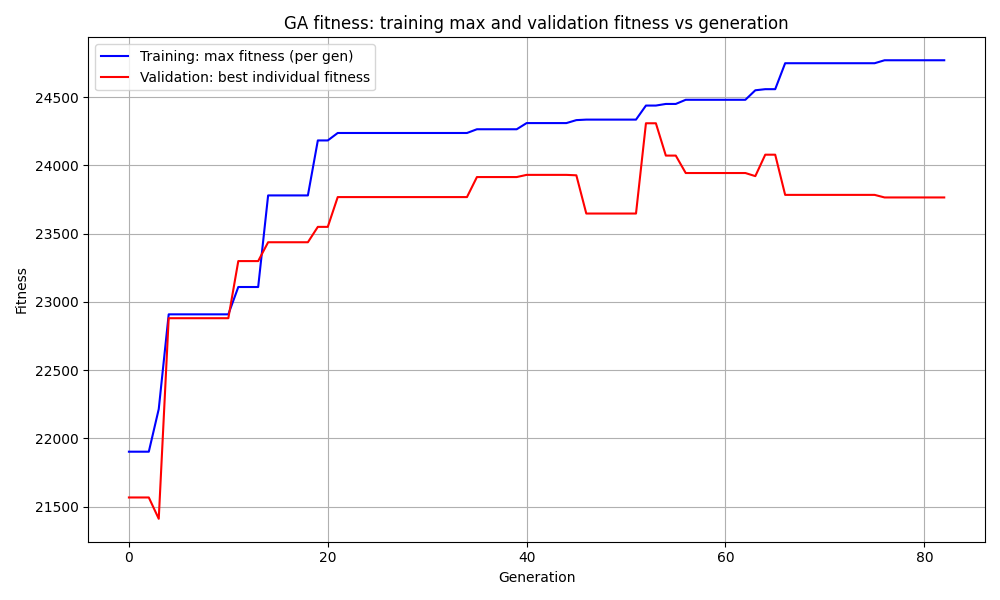
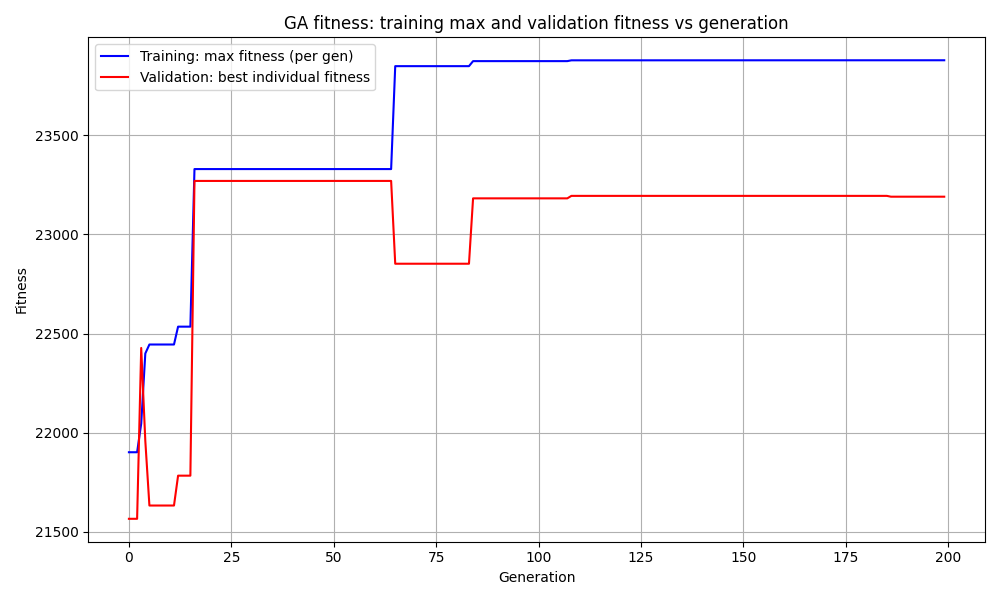
Negative alpha

diff --git a/HP2/HP2.3/checkpoints/checkpoint_gen110.py b/HP2/HP2.3/checkpoints/checkpoint_gen110.py
@@ -1,9 +1,9 @@
 # Checkpoint chromosome from GA optimization
-CHROMOSOME = [0.93374942300147, 0.0794193689889866, 0.7945256017997251, 0.5088940700698802, 0.09120610304869037, 0.7076809347409158, 0.5989785081772105, 0.9317314247538246, 0.9836789252634136, 0.8591117576469165, 0.3509150125520787, 0.48303969755889, 0.7328015447662506, 0.11635848516449587, 0.6880455570741288, 0.7356631142391898, 0.10988354609219969, 0.8267878665414035, 0.6888853020500907, 0.8650710993753938, 0.30625362078661167, 0.520912445480685, 0.24618949858401212, 0.1602256009765063, 0.10971794703713791, 0.3686433676263918, 0.26251029048316565, 0.034543314758851244, 0.059587097353143714, 0.41412975252892703, 0.02974468302092731, 0.733614380561402, 0.7693048936413398, 0.011031264428647214, 0.4161539981797615, 0.9706680277938705, 0.019192276823056686, 0.49262510429085915]
+CHROMOSOME = [0.5969106905466561, 0.1782259925695533, 0.6015205653959383, 0.602553304280247, 0.5135850251018901, 0.5371065418185478, 0.0, 0.7217693570937745, 0.2039448467069711, 0.020513491107372828, 0.0, 1.0, 0.0, 0.9205314040039358, 0.8683239636503679, 0.9625711504698298, 0.1860885417725199, 0.8815112908118601, 0.47710981769392613, 0.5293021711521956, 0.604786121632589, 0.1627035417652672, 0.1215873495335269, 0.7587704341985726, 0.3305710900767286, 0.03881294781180211, 0.46487093015434366, 0.49896794422079305, 0.454130324041545, 0.6933150468600581, 0.4727245214577982, 0.7406489486815686, 0.5902375671662377, 0.8724456007975532, 0.4188883407437571, 0.328156262408395, 0.052579528629520284, 0.8513647834094696]
 NI = 3  # Number of inputs
 NH = 6  # Number of hidden neurons
 NO = 2  # Number of outputs
 SIGMOID_C = 2.0  # Sigmoid parameter c
-TRAINING_FITNESS = 19961.497496756077  # Training fitness
-VALIDATION_FITNESS = 16686.626673885414  # Validation fitness
+TRAINING_FITNESS = 23877.039077452988  # Training fitness
+VALIDATION_FITNESS = 23193.886799463082  # Validation fitness
 GENERATION = 110  # Generation number

diff --git a/HP2/HP2.3/checkpoints/checkpoint_gen130.py b/HP2/HP2.3/checkpoints/checkpoint_gen130.py
@@ -1,9 +1,9 @@
 # Checkpoint chromosome from GA optimization
-CHROMOSOME = [0.93374942300147, 0.0794193689889866, 0.7945256017997251, 0.5088940700698802, 0.09120610304869037, 0.7076809347409158, 0.5989785081772105, 0.9317314247538246, 0.6327118787486009, 0.8591117576469165, 0.2786333287505896, 0.48303969755889, 0.7328015447662506, 0.11635848516449587, 0.6880455570741288, 0.7356631142391898, 0.10364687132387616, 0.8267878665414035, 0.6888853020500907, 0.8650710993753938, 0.30625362078661167, 0.520912445480685, 0.046851908527603126, 0.2084843883201159, 0.10971794703713791, 0.3686433676263918, 0.26251029048316565, 0.034543314758851244, 0.059587097353143714, 0.3794733743748653, 0.02974468302092731, 0.733614380561402, 0.7693048936413398, 0.011031264428647214, 0.4161539981797615, 0.9706680277938705, 0.019192276823056686, 0.49262510429085915]
+CHROMOSOME = [0.5969106905466561, 0.1782259925695533, 0.6015205653959383, 0.602553304280247, 0.5135850251018901, 0.5371065418185478, 0.0, 0.7217693570937745, 0.2039448467069711, 0.020513491107372828, 0.0, 1.0, 0.0, 0.9205314040039358, 0.8683239636503679, 0.9625711504698298, 0.1860885417725199, 0.8815112908118601, 0.47710981769392613, 0.5293021711521956, 0.604786121632589, 0.1627035417652672, 0.1215873495335269, 0.7587704341985726, 0.3305710900767286, 0.03881294781180211, 0.46487093015434366, 0.49896794422079305, 0.454130324041545, 0.6933150468600581, 0.4727245214577982, 0.7406489486815686, 0.5902375671662377, 0.8724456007975532, 0.4188883407437571, 0.328156262408395, 0.052579528629520284, 0.8513647834094696]
 NI = 3  # Number of inputs
 NH = 6  # Number of hidden neurons
 NO = 2  # Number of outputs
 SIGMOID_C = 2.0  # Sigmoid parameter c
-TRAINING_FITNESS = 20016.686322050544  # Training fitness
-VALIDATION_FITNESS = 16602.200710267163  # Validation fitness
+TRAINING_FITNESS = 23877.039077452988  # Training fitness
+VALIDATION_FITNESS = 23193.886799463082  # Validation fitness
 GENERATION = 130  # Generation number

diff --git a/HP2/HP2.3/checkpoints/checkpoint_gen140.py b/HP2/HP2.3/checkpoints/checkpoint_gen140.py
@@ -1,9 +1,9 @@
 # Checkpoint chromosome from GA optimization
-CHROMOSOME = [0.93374942300147, 0.0794193689889866, 0.7945256017997251, 0.5088940700698802, 0.09120610304869037, 0.7076809347409158, 0.5989785081772105, 0.9317314247538246, 0.6327118787486009, 0.8591117576469165, 0.3509150125520787, 0.48303969755889, 0.7328015447662506, 0.11635848516449587, 0.6880455570741288, 0.7356631142391898, 0.10333512156241004, 0.8267878665414035, 0.6888853020500907, 0.8650710993753938, 0.30625362078661167, 0.520912445480685, 0.046851908527603126, 0.2084843883201159, 0.10971794703713791, 0.009087034951216322, 0.26251029048316565, 0.2653928668425427, 0.059587097353143714, 0.41412975252892703, 0.02974468302092731, 0.733614380561402, 0.7693048936413398, 0.011031264428647214, 0.4161539981797615, 0.9706680277938705, 0.019192276823056686, 0.49262510429085915]
+CHROMOSOME = [0.5969106905466561, 0.1782259925695533, 0.6015205653959383, 0.602553304280247, 0.5135850251018901, 0.5371065418185478, 0.0, 0.7217693570937745, 0.2039448467069711, 0.020513491107372828, 0.0, 1.0, 0.0, 0.9205314040039358, 0.8683239636503679, 0.9625711504698298, 0.1860885417725199, 0.8815112908118601, 0.47710981769392613, 0.5293021711521956, 0.604786121632589, 0.1627035417652672, 0.1215873495335269, 0.7587704341985726, 0.3305710900767286, 0.03881294781180211, 0.46487093015434366, 0.49896794422079305, 0.454130324041545, 0.6933150468600581, 0.4727245214577982, 0.7406489486815686, 0.5902375671662377, 0.8724456007975532, 0.4188883407437571, 0.328156262408395, 0.052579528629520284, 0.8513647834094696]
 NI = 3  # Number of inputs
 NH = 6  # Number of hidden neurons
 NO = 2  # Number of outputs
 SIGMOID_C = 2.0  # Sigmoid parameter c
-TRAINING_FITNESS = 20016.81055665541  # Training fitness
-VALIDATION_FITNESS = 16609.174145901787  # Validation fitness
+TRAINING_FITNESS = 23877.039077452988  # Training fitness
+VALIDATION_FITNESS = 23193.886799463082  # Validation fitness
 GENERATION = 140  # Generation number

diff --git a/HP2/HP2.3/checkpoints/checkpoint_gen150.py b/HP2/HP2.3/checkpoints/checkpoint_gen150.py
@@ -1,9 +1,9 @@
 # Checkpoint chromosome from GA optimization
-CHROMOSOME = [0.93374942300147, 0.0794193689889866, 0.7945256017997251, 0.5088940700698802, 0.09120610304869037, 0.7076809347409158, 0.5989785081772105, 0.9317314247538246, 0.6327118787486009, 0.8591117576469165, 0.3509150125520787, 0.48303969755889, 0.7328015447662506, 0.11635848516449587, 0.6880455570741288, 0.7356631142391898, 0.10333512156241004, 0.8267878665414035, 0.6888853020500907, 0.8650710993753938, 0.30625362078661167, 0.520912445480685, 0.046851908527603126, 0.2084843883201159, 0.10971794703713791, 0.009087034951216322, 0.26251029048316565, 0.2653928668425427, 0.059587097353143714, 0.41412975252892703, 0.02974468302092731, 0.733614380561402, 0.7693048936413398, 0.011031264428647214, 0.4161539981797615, 0.9706680277938705, 0.019192276823056686, 0.49262510429085915]
+CHROMOSOME = [0.5969106905466561, 0.1782259925695533, 0.6015205653959383, 0.602553304280247, 0.5135850251018901, 0.5371065418185478, 0.0, 0.7217693570937745, 0.2039448467069711, 0.020513491107372828, 0.0, 1.0, 0.0, 0.9205314040039358, 0.8683239636503679, 0.9625711504698298, 0.1860885417725199, 0.8815112908118601, 0.47710981769392613, 0.5293021711521956, 0.604786121632589, 0.1627035417652672, 0.1215873495335269, 0.7587704341985726, 0.3305710900767286, 0.03881294781180211, 0.46487093015434366, 0.49896794422079305, 0.454130324041545, 0.6933150468600581, 0.4727245214577982, 0.7406489486815686, 0.5902375671662377, 0.8724456007975532, 0.4188883407437571, 0.328156262408395, 0.052579528629520284, 0.8513647834094696]
 NI = 3  # Number of inputs
 NH = 6  # Number of hidden neurons
 NO = 2  # Number of outputs
 SIGMOID_C = 2.0  # Sigmoid parameter c
-TRAINING_FITNESS = 20016.81055665541  # Training fitness
-VALIDATION_FITNESS = 16609.174145901787  # Validation fitness
+TRAINING_FITNESS = 23877.039077452988  # Training fitness
+VALIDATION_FITNESS = 23193.886799463082  # Validation fitness
 GENERATION = 150  # Generation number

diff --git a/HP2/HP2.3/checkpoints/checkpoint_gen160.py b/HP2/HP2.3/checkpoints/checkpoint_gen160.py
@@ -1,9 +1,9 @@
 # Checkpoint chromosome from GA optimization
-CHROMOSOME = [0.93374942300147, 0.0794193689889866, 0.7945256017997251, 0.5088940700698802, 0.09120610304869037, 0.7076809347409158, 0.5989785081772105, 0.9317314247538246, 0.6327118787486009, 0.8591117576469165, 0.3509150125520787, 0.48303969755889, 0.7328015447662506, 0.11635848516449587, 0.6880455570741288, 0.7356631142391898, 0.10333512156241004, 0.8267878665414035, 0.6888853020500907, 0.8650710993753938, 0.30625362078661167, 0.520912445480685, 0.046851908527603126, 0.2084843883201159, 0.10971794703713791, 0.009087034951216322, 0.26251029048316565, 0.2653928668425427, 0.059587097353143714, 0.41412975252892703, 0.02974468302092731, 0.733614380561402, 0.7693048936413398, 0.011031264428647214, 0.4161539981797615, 0.9706680277938705, 0.019192276823056686, 0.49262510429085915]
+CHROMOSOME = [0.5969106905466561, 0.1782259925695533, 0.6015205653959383, 0.602553304280247, 0.5135850251018901, 0.5371065418185478, 0.0, 0.7217693570937745, 0.2039448467069711, 0.020513491107372828, 0.0, 1.0, 0.0, 0.9205314040039358, 0.8683239636503679, 0.9625711504698298, 0.1860885417725199, 0.8815112908118601, 0.47710981769392613, 0.5293021711521956, 0.604786121632589, 0.1627035417652672, 0.1215873495335269, 0.7587704341985726, 0.3305710900767286, 0.03881294781180211, 0.46487093015434366, 0.49896794422079305, 0.454130324041545, 0.6933150468600581, 0.4727245214577982, 0.7406489486815686, 0.5902375671662377, 0.8724456007975532, 0.4188883407437571, 0.328156262408395, 0.052579528629520284, 0.8513647834094696]
 NI = 3  # Number of inputs
 NH = 6  # Number of hidden neurons
 NO = 2  # Number of outputs
 SIGMOID_C = 2.0  # Sigmoid parameter c
-TRAINING_FITNESS = 20016.81055665541  # Training fitness
-VALIDATION_FITNESS = 16609.174145901787  # Validation fitness
+TRAINING_FITNESS = 23877.039077452988  # Training fitness
+VALIDATION_FITNESS = 23193.886799463082  # Validation fitness
 GENERATION = 160  # Generation number

diff --git a/HP2/HP2.3/checkpoints/checkpoint_gen170.py b/HP2/HP2.3/checkpoints/checkpoint_gen170.py
@@ -1,9 +1,9 @@
 # Checkpoint chromosome from GA optimization
-CHROMOSOME = [0.93374942300147, 0.0794193689889866, 0.7945256017997251, 0.5088940700698802, 0.09120610304869037, 0.7076809347409158, 0.5989785081772105, 0.9317314247538246, 0.6327118787486009, 0.8591117576469165, 0.3509150125520787, 0.48303969755889, 0.7328015447662506, 0.11635848516449587, 0.6880455570741288, 0.7356631142391898, 0.10333512156241004, 0.8267878665414035, 0.6888853020500907, 0.8650710993753938, 0.30625362078661167, 0.520912445480685, 0.046851908527603126, 0.2084843883201159, 0.10971794703713791, 0.009087034951216322, 0.26251029048316565, 0.2653928668425427, 0.059587097353143714, 0.41412975252892703, 0.02974468302092731, 0.733614380561402, 0.7693048936413398, 0.011031264428647214, 0.4161539981797615, 0.9706680277938705, 0.019192276823056686, 0.49262510429085915]
+CHROMOSOME = [0.5969106905466561, 0.1782259925695533, 0.6015205653959383, 0.602553304280247, 0.5135850251018901, 0.5371065418185478, 0.0, 0.7217693570937745, 0.2039448467069711, 0.020513491107372828, 0.0, 1.0, 0.0, 0.9205314040039358, 0.8683239636503679, 0.9625711504698298, 0.1860885417725199, 0.8815112908118601, 0.47710981769392613, 0.5293021711521956, 0.604786121632589, 0.1627035417652672, 0.1215873495335269, 0.7587704341985726, 0.3305710900767286, 0.03881294781180211, 0.46487093015434366, 0.49896794422079305, 0.454130324041545, 0.6933150468600581, 0.4727245214577982, 0.7406489486815686, 0.5902375671662377, 0.8724456007975532, 0.4188883407437571, 0.328156262408395, 0.052579528629520284, 0.8513647834094696]
 NI = 3  # Number of inputs
 NH = 6  # Number of hidden neurons
 NO = 2  # Number of outputs
 SIGMOID_C = 2.0  # Sigmoid parameter c
-TRAINING_FITNESS = 20016.81055665541  # Training fitness
-VALIDATION_FITNESS = 16609.174145901787  # Validation fitness
+TRAINING_FITNESS = 23877.039077452988  # Training fitness
+VALIDATION_FITNESS = 23193.886799463082  # Validation fitness
 GENERATION = 170  # Generation number

diff --git a/HP2/HP2.3/checkpoints/checkpoint_gen100.py b/HP2/HP2.3/checkpoints/checkpoint_gen100.py
@@ -1,9 +1,9 @@
 # Checkpoint chromosome from GA optimization
-CHROMOSOME = [0.93374942300147, 0.0794193689889866, 0.7945256017997251, 0.5088940700698802, 0.09120610304869037, 0.7076809347409158, 0.5989785081772105, 0.9317314247538246, 0.9836789252634136, 0.8591117576469165, 0.3509150125520787, 0.48303969755889, 0.7328015447662506, 0.11635848516449587, 0.6880455570741288, 0.7356631142391898, 0.10988354609219969, 0.8267878665414035, 0.6888853020500907, 0.8650710993753938, 0.30625362078661167, 0.520912445480685, 0.24618949858401212, 0.1602256009765063, 0.10971794703713791, 0.3686433676263918, 0.26251029048316565, 0.034543314758851244, 0.059587097353143714, 0.41412975252892703, 0.02974468302092731, 0.733614380561402, 0.7693048936413398, 0.011031264428647214, 0.4161539981797615, 0.9706680277938705, 0.019192276823056686, 0.49262510429085915]
+CHROMOSOME = [0.5969106905466561, 0.1782259925695533, 0.6015205653959383, 0.602553304280247, 0.5135850251018901, 0.5371065418185478, 0.0, 0.7217693570937745, 0.2039448467069711, 0.07120671754123253, 0.0, 1.0, 0.0, 0.9639160120731884, 0.8683239636503679, 0.9625711504698298, 0.1860885417725199, 0.8815112908118601, 0.47710981769392613, 0.5293021711521956, 0.604786121632589, 0.1627035417652672, 0.1215873495335269, 0.7587704341985726, 0.3305710900767286, 0.03881294781180211, 0.46487093015434366, 0.49896794422079305, 0.454130324041545, 0.6933150468600581, 0.4727245214577982, 0.7406489486815686, 0.5902375671662377, 0.8724456007975532, 0.4188883407437571, 0.328156262408395, 0.052579528629520284, 0.8513647834094696]
 NI = 3  # Number of inputs
 NH = 6  # Number of hidden neurons
 NO = 2  # Number of outputs
 SIGMOID_C = 2.0  # Sigmoid parameter c
-TRAINING_FITNESS = 19961.497496756077  # Training fitness
-VALIDATION_FITNESS = 16686.626673885414  # Validation fitness
+TRAINING_FITNESS = 23873.030552025266  # Training fitness
+VALIDATION_FITNESS = 23181.397236342433  # Validation fitness
 GENERATION = 100  # Generation number

diff --git a/HP2/HP2.3/checkpoints/checkpoint_gen120.py b/HP2/HP2.3/checkpoints/checkpoint_gen120.py
@@ -1,9 +1,9 @@
 # Checkpoint chromosome from GA optimization
-CHROMOSOME = [0.93374942300147, 0.0794193689889866, 0.7945256017997251, 0.5088940700698802, 0.09120610304869037, 0.7076809347409158, 0.5989785081772105, 0.9317314247538246, 0.6327118787486009, 0.8799373689147441, 0.3509150125520787, 0.48303969755889, 0.7328015447662506, 0.11635848516449587, 0.6880455570741288, 0.7356631142391898, 0.10364687132387616, 0.8267878665414035, 0.6888853020500907, 0.8650710993753938, 0.30625362078661167, 0.520912445480685, 0.24618949858401212, 0.2084843883201159, 0.10971794703713791, 0.009087034951216322, 0.26251029048316565, 0.034543314758851244, 0.9860010638228709, 0.41412975252892703, 0.02974468302092731, 0.733614380561402, 0.7693048936413398, 0.011031264428647214, 0.4161539981797615, 0.9706680277938705, 0.019192276823056686, 0.49262510429085915]
+CHROMOSOME = [0.5969106905466561, 0.1782259925695533, 0.6015205653959383, 0.602553304280247, 0.5135850251018901, 0.5371065418185478, 0.0, 0.7217693570937745, 0.2039448467069711, 0.020513491107372828, 0.0, 1.0, 0.0, 0.9205314040039358, 0.8683239636503679, 0.9625711504698298, 0.1860885417725199, 0.8815112908118601, 0.47710981769392613, 0.5293021711521956, 0.604786121632589, 0.1627035417652672, 0.1215873495335269, 0.7587704341985726, 0.3305710900767286, 0.03881294781180211, 0.46487093015434366, 0.49896794422079305, 0.454130324041545, 0.6933150468600581, 0.4727245214577982, 0.7406489486815686, 0.5902375671662377, 0.8724456007975532, 0.4188883407437571, 0.328156262408395, 0.052579528629520284, 0.8513647834094696]
 NI = 3  # Number of inputs
 NH = 6  # Number of hidden neurons
 NO = 2  # Number of outputs
 SIGMOID_C = 2.0  # Sigmoid parameter c
-TRAINING_FITNESS = 20010.27293963399  # Training fitness
-VALIDATION_FITNESS = 16602.200710267163  # Validation fitness
+TRAINING_FITNESS = 23877.039077452988  # Training fitness
+VALIDATION_FITNESS = 23193.886799463082  # Validation fitness
 GENERATION = 120  # Generation number

diff --git a/HP2/HP2.3/checkpoints/checkpoint_gen180.py b/HP2/HP2.3/checkpoints/checkpoint_gen180.py
@@ -1,9 +1,9 @@
 # Checkpoint chromosome from GA optimization
-CHROMOSOME = [0.9137045985103034, 0.8059254001176211, 0.7900304363070614, 0.18700060568657434, 0.013289259693293379, 0.4529259551424297, 0.45818688673789265, 0.6616427565401277, 0.4156697667230498, 0.9756102008599149, 0.6640085156338161, 0.9937150981857448, 0.13252467274184843, 0.8530294469129991, 0.9227571905133943, 0.4870619188189359, 0.6062529377509774, 0.7872860869515932, 0.18925618209543377, 0.5025660764634424, 0.6085272726964666, 0.1463739921622491, 0.7481839120488464, 0.23530005381389185, 0.025811906949486985, 0.13516628915482276, 0.718812273116439, 0.10808945474930137, 0.8722054015328647, 0.03022053869106618, 0.3285392954380101, 0.5061418628402441, 0.4395116886329101, 0.09622364835722777, 0.6408263146902062, 0.2160381825095996, 0.6195879548978296, 0.7797055562599339]
+CHROMOSOME = [0.5969106905466561, 0.1782259925695533, 0.6015205653959383, 0.602553304280247, 0.5135850251018901, 0.5371065418185478, 0.0, 0.7217693570937745, 0.2039448467069711, 0.020513491107372828, 0.0, 1.0, 0.0, 0.9205314040039358, 0.8683239636503679, 0.9625711504698298, 0.1860885417725199, 0.8815112908118601, 0.47710981769392613, 0.5293021711521956, 0.604786121632589, 0.1627035417652672, 0.1215873495335269, 0.7587704341985726, 0.3305710900767286, 0.03881294781180211, 0.46487093015434366, 0.49896794422079305, 0.454130324041545, 0.6933150468600581, 0.4727245214577982, 0.7406489486815686, 0.5902375671662377, 0.8724456007975532, 0.4188883407437571, 0.328156262408395, 0.052579528629520284, 0.8513647834094696]
 NI = 3  # Number of inputs
 NH = 6  # Number of hidden neurons
 NO = 2  # Number of outputs
 SIGMOID_C = 2.0  # Sigmoid parameter c
-TRAINING_FITNESS = 20514.46528176937  # Training fitness
-VALIDATION_FITNESS = 17600.983733189438  # Validation fitness
+TRAINING_FITNESS = 23877.039077452988  # Training fitness
+VALIDATION_FITNESS = 23193.886799463082  # Validation fitness
 GENERATION = 180  # Generation number

diff --git a/HP2/HP2.3/checkpoints/checkpoint_gen190.py b/HP2/HP2.3/checkpoints/checkpoint_gen190.py
@@ -1,9 +1,9 @@
 # Checkpoint chromosome from GA optimization
-CHROMOSOME = [0.9137045985103034, 0.8059254001176211, 0.7900304363070614, 0.18700060568657434, 0.013289259693293379, 0.4529259551424297, 0.45818688673789265, 0.6616427565401277, 0.4156697667230498, 0.9756102008599149, 0.6640085156338161, 0.9937150981857448, 0.13252467274184843, 0.8530294469129991, 0.9227571905133943, 0.4870619188189359, 0.6062529377509774, 0.7872860869515932, 0.18925618209543377, 0.5025660764634424, 0.6085272726964666, 0.1463739921622491, 0.7481839120488464, 0.23530005381389185, 0.025811906949486985, 0.13516628915482276, 0.718812273116439, 0.10808945474930137, 0.8722054015328647, 0.03022053869106618, 0.3285392954380101, 0.5061418628402441, 0.4395116886329101, 0.09622364835722777, 0.6408263146902062, 0.2160381825095996, 0.6195879548978296, 0.7797055562599339]
+CHROMOSOME = [0.5969106905466561, 0.1782259925695533, 0.6015205653959383, 0.602553304280247, 0.5135850251018901, 0.5371065418185478, 0.0, 0.7217693570937745, 0.2039448467069711, 0.020513491107372828, 0.0, 1.0, 0.0, 0.9205314040039358, 0.8683239636503679, 0.9625711504698298, 0.1860885417725199, 0.8815112908118601, 0.47710981769392613, 0.5293021711521956, 0.604786121632589, 0.1627035417652672, 0.1215873495335269, 0.7587704341985726, 0.3305710900767286, 0.03881294781180211, 0.46487093015434366, 0.4154373509707343, 0.454130324041545, 0.6933150468600581, 0.4727245214577982, 0.7406489486815686, 0.5902375671662377, 0.8724456007975532, 0.4188883407437571, 0.328156262408395, 0.052579528629520284, 0.8513647834094696]
 NI = 3  # Number of inputs
 NH = 6  # Number of hidden neurons
 NO = 2  # Number of outputs
 SIGMOID_C = 2.0  # Sigmoid parameter c
-TRAINING_FITNESS = 20514.46528176937  # Training fitness
-VALIDATION_FITNESS = 17600.983733189438  # Validation fitness
+TRAINING_FITNESS = 23877.391706741568  # Training fitness
+VALIDATION_FITNESS = 23189.7600520915  # Validation fitness
 GENERATION = 190  # Generation number

diff --git a/HP2/HP2.3/checkpoints/checkpoint_gen90.py b/HP2/HP2.3/checkpoints/checkpoint_gen90.py
@@ -1,9 +1,9 @@
 # Checkpoint chromosome from GA optimization
-CHROMOSOME = [0.93374942300147, 0.0794193689889866, 0.7520169829267265, 0.4598004237693202, 0.03866087841216767, 0.7076809347409158, 0.5989785081772105, 0.9317314247538246, 0.9836789252634136, 0.8422739056378937, 0.4508393714041321, 0.48303969755889, 0.7328015447662506, 0.10104581101064669, 0.6880455570741288, 0.6623179135395824, 0.058385615078457534, 0.8267878665414035, 0.6888853020500907, 0.8218600592903562, 0.30625362078661167, 0.520912445480685, 0.3993162925333199, 0.1602256009765063, 0.02408929473395048, 0.009087034951216322, 0.26251029048316565, 0.16467739357009678, 0.18447625313363936, 0.41412975252892703, 0.02974468302092731, 0.733614380561402, 0.7693048936413398, 0.011031264428647214, 0.3570969160238845, 0.9706680277938705, 0.0, 0.5974131021703083]
+CHROMOSOME = [0.5969106905466561, 0.1782259925695533, 0.6015205653959383, 0.602553304280247, 0.5135850251018901, 0.5371065418185478, 0.0, 0.7217693570937745, 0.2039448467069711, 0.07120671754123253, 0.0, 1.0, 0.0, 0.9639160120731884, 0.8683239636503679, 0.9625711504698298, 0.1860885417725199, 0.8815112908118601, 0.47710981769392613, 0.5293021711521956, 0.604786121632589, 0.1627035417652672, 0.1215873495335269, 0.7587704341985726, 0.3305710900767286, 0.03881294781180211, 0.46487093015434366, 0.49896794422079305, 0.454130324041545, 0.6933150468600581, 0.4727245214577982, 0.7406489486815686, 0.5902375671662377, 0.8724456007975532, 0.4188883407437571, 0.328156262408395, 0.052579528629520284, 0.8513647834094696]
 NI = 3  # Number of inputs
 NH = 6  # Number of hidden neurons
 NO = 2  # Number of outputs
 SIGMOID_C = 2.0  # Sigmoid parameter c
-TRAINING_FITNESS = 19926.49211533838  # Training fitness
-VALIDATION_FITNESS = 12536.87297909611  # Validation fitness
+TRAINING_FITNESS = 23873.030552025266  # Training fitness
+VALIDATION_FITNESS = 23181.397236342433  # Validation fitness
 GENERATION = 90  # Generation number

diff --git a/HP2/HP2.3/best_chromosome.py b/HP2/HP2.3/best_chromosome.py
@@ -1,6 +1,7 @@
-# Best chromosome found through GA optimization
-CHROMOSOME = [0.07764933467160506, 0.9655179182347664, 0.763094672176203, 0.3046791390980408, 0.3850225615165895, 0.5371065418185478, 0.08852231521472842, 0.887751524671688, 0.24724595252028636, 0.0, 0.03227051251401665, 0.7227069576982285, 0.5683191510779255, 0.6346829653386941, 0.7391246671365462, 0.9024560969928213, 0.43921060124971734, 0.8264646094921829, 0.47710981769392613, 0.1959828624191452, 0.9473664548906648, 0.761121537043158, 0.36753442229153144, 0.17436642900499144, 0.44711708280803475, 0.03881294781180211, 0.11775108289014113, 0.5067402885155927, 0.5596486834869141, 0.5442000021136278, 0.6678046832264065, 0.4526731862083637, 0.4395116886329101, 0.9220926535723316, 0.5549414766662932, 0.2160381825095996, 0.8615972375608937, 0.4734717707805657]
-NI = 3  # Number of inputs
-NH = 6  # Number of hidden neurons
-NO = 2  # Number of outputs
-SIGMOID_C = 2.0  # Sigmoid parameter c
+# Best chromosome saved by run_ffnn_optimization
+CHROMOSOME = [0.5969106905466561, 0.1782259925695533, 0.6015205653959383, 0.602553304280247, 0.5135850251018901, 0.5371065418185478, 0.0, 0.7217693570937745, 0.2039448467069711, 0.020513491107372828, 0.0, 1.0, 0.0, 0.9205314040039358, 0.8683239636503679, 0.9625711504698298, 0.1860885417725199, 0.8815112908118601, 0.47710981769392613, 0.5293021711521956, 0.604786121632589, 0.1627035417652672, 0.1215873495335269, 0.7587704341985726, 0.3305710900767286, 0.03881294781180211, 0.46487093015434366, 0.4154373509707343, 0.454130324041545, 0.6933150468600581, 0.4727245214577982, 0.7406489486815686, 0.5902375671662377, 0.8724456007975532, 0.4188883407437571, 0.328156262408395, 0.052579528629520284, 0.8513647834094696]
+NI = 3
+NH = 6
+NO = 2
+SIGMOID_C = 2.0
+TRAINING_FITNESS = 23877.391706741568
